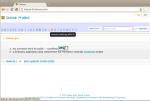
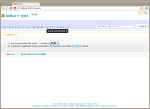
updated tour

Changed region(s): [[0.0, 0.0, 1.0, 1.0]]

diff --git a/public/stylesheets/common.css b/public/stylesheets/common.css
@@ -187,6 +187,7 @@ span.star-icon-span {
 #tour table {
   table-layout: fixed;
   width: 90%;
+  text-align: center;
 }
 
 #tour a {
@@ -194,9 +195,8 @@ span.star-icon-span {
 }
 
 #tour img {
-  display: block;
-  float: left;
-  clear: right;
+  display: inline-block;
+  margin: 1em;
 }
 
 .tour-dialog img {
